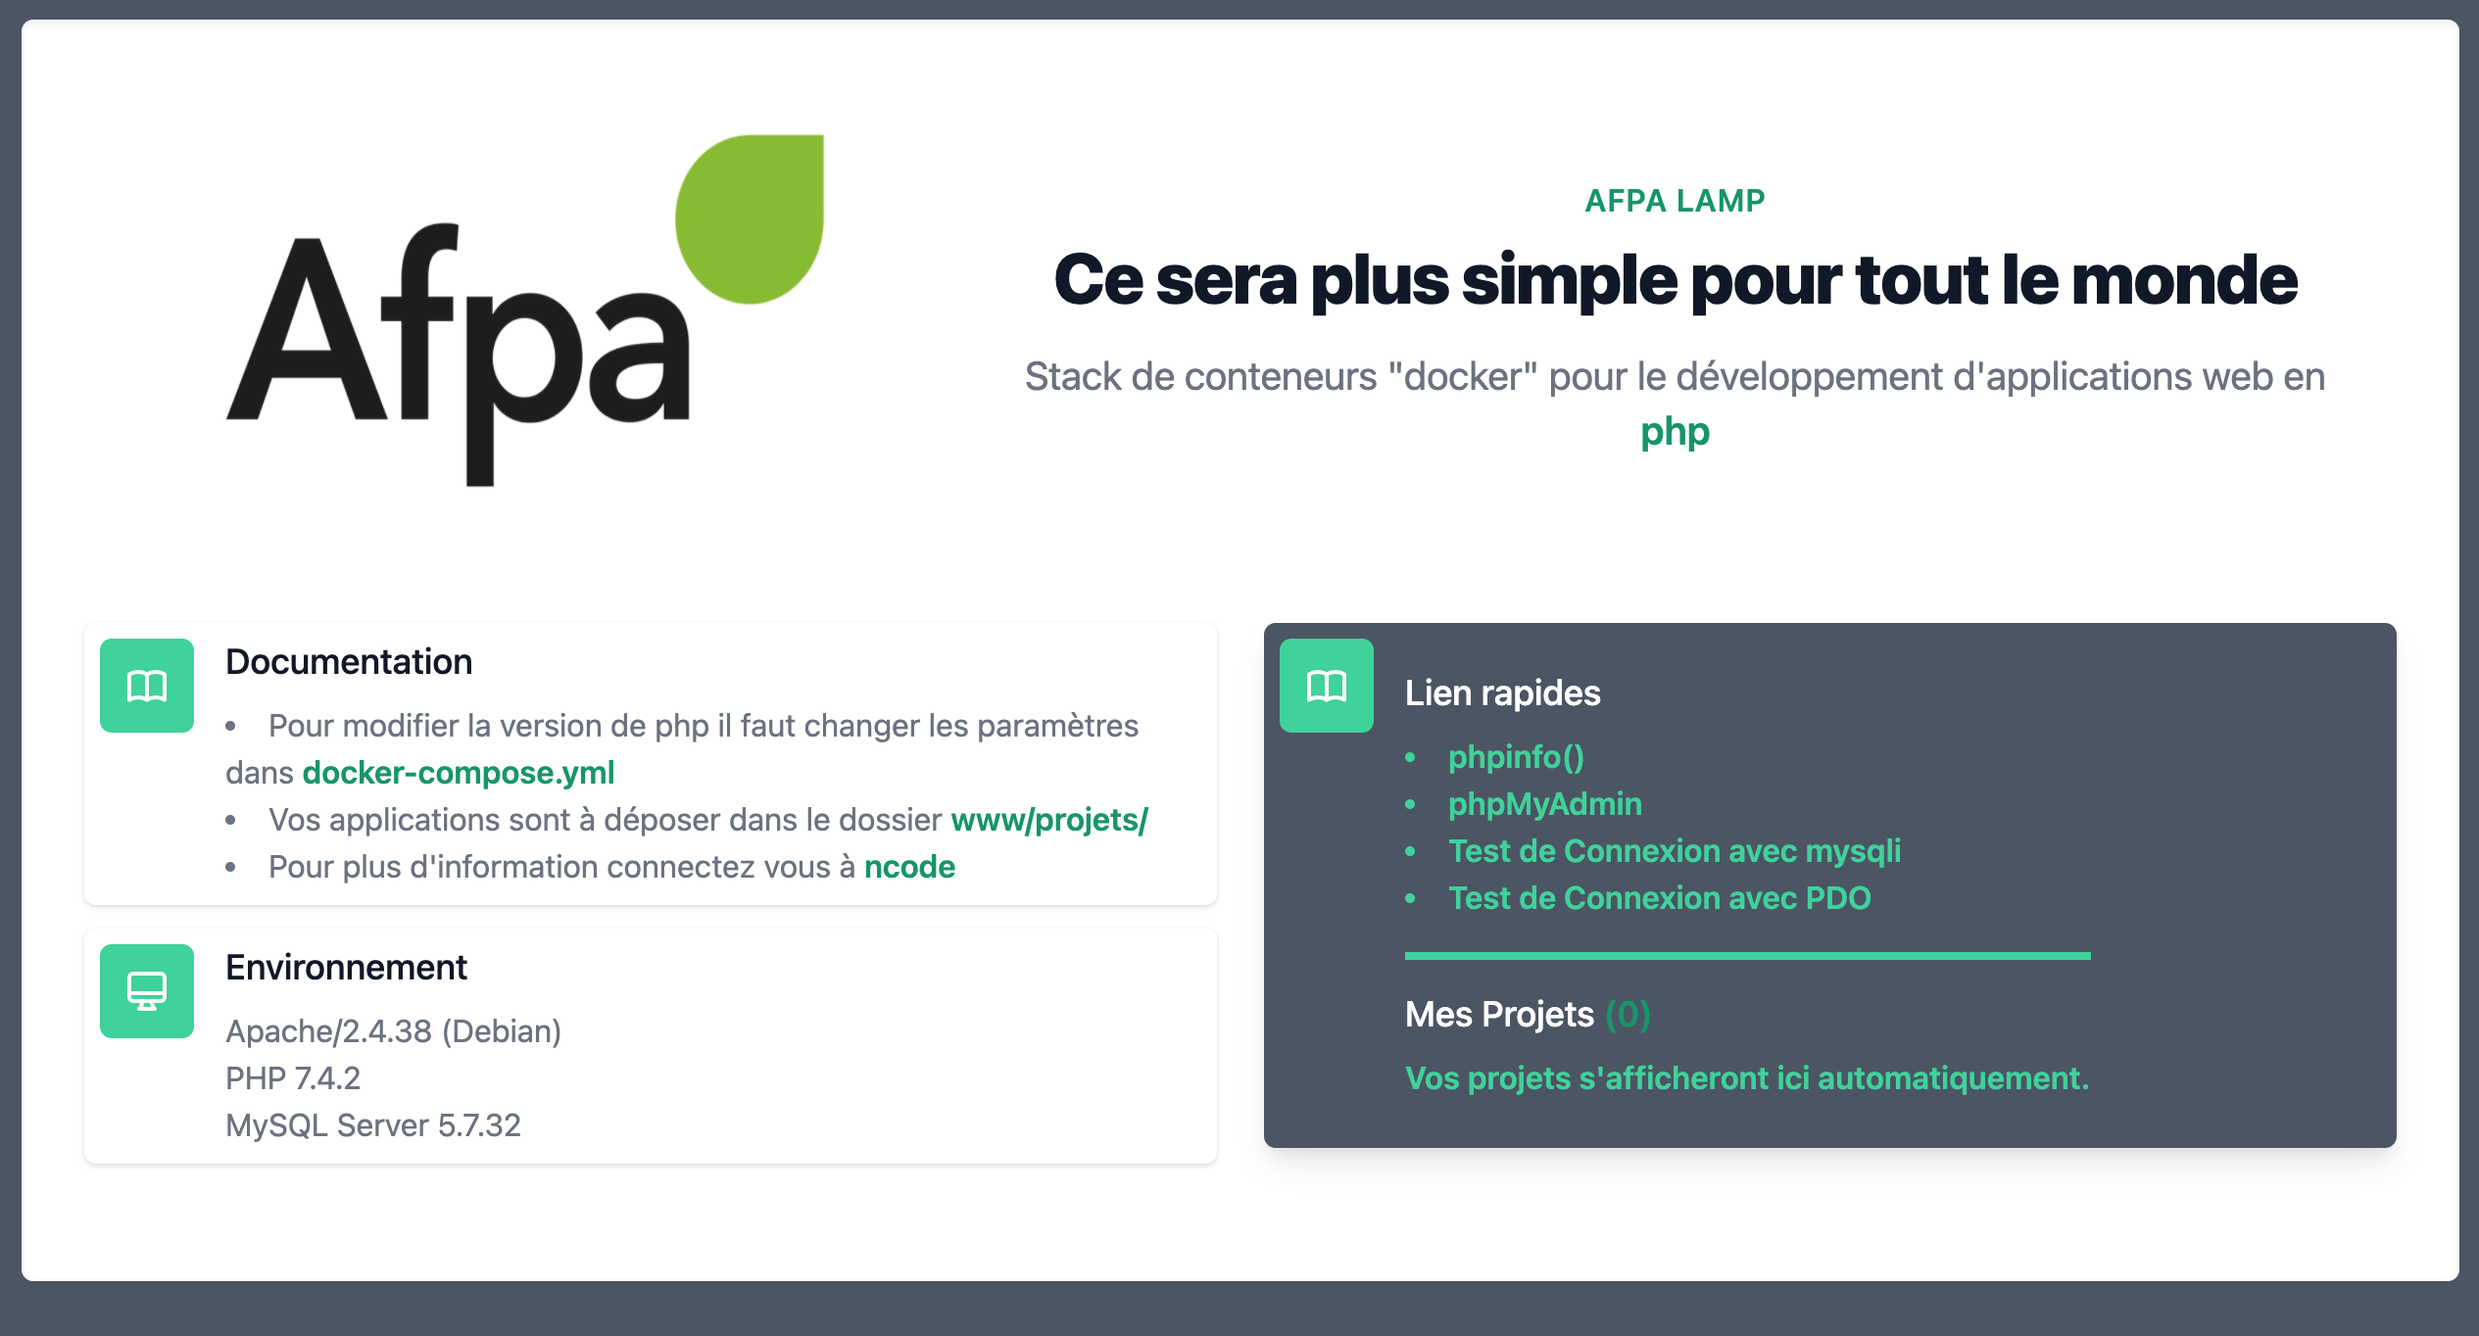
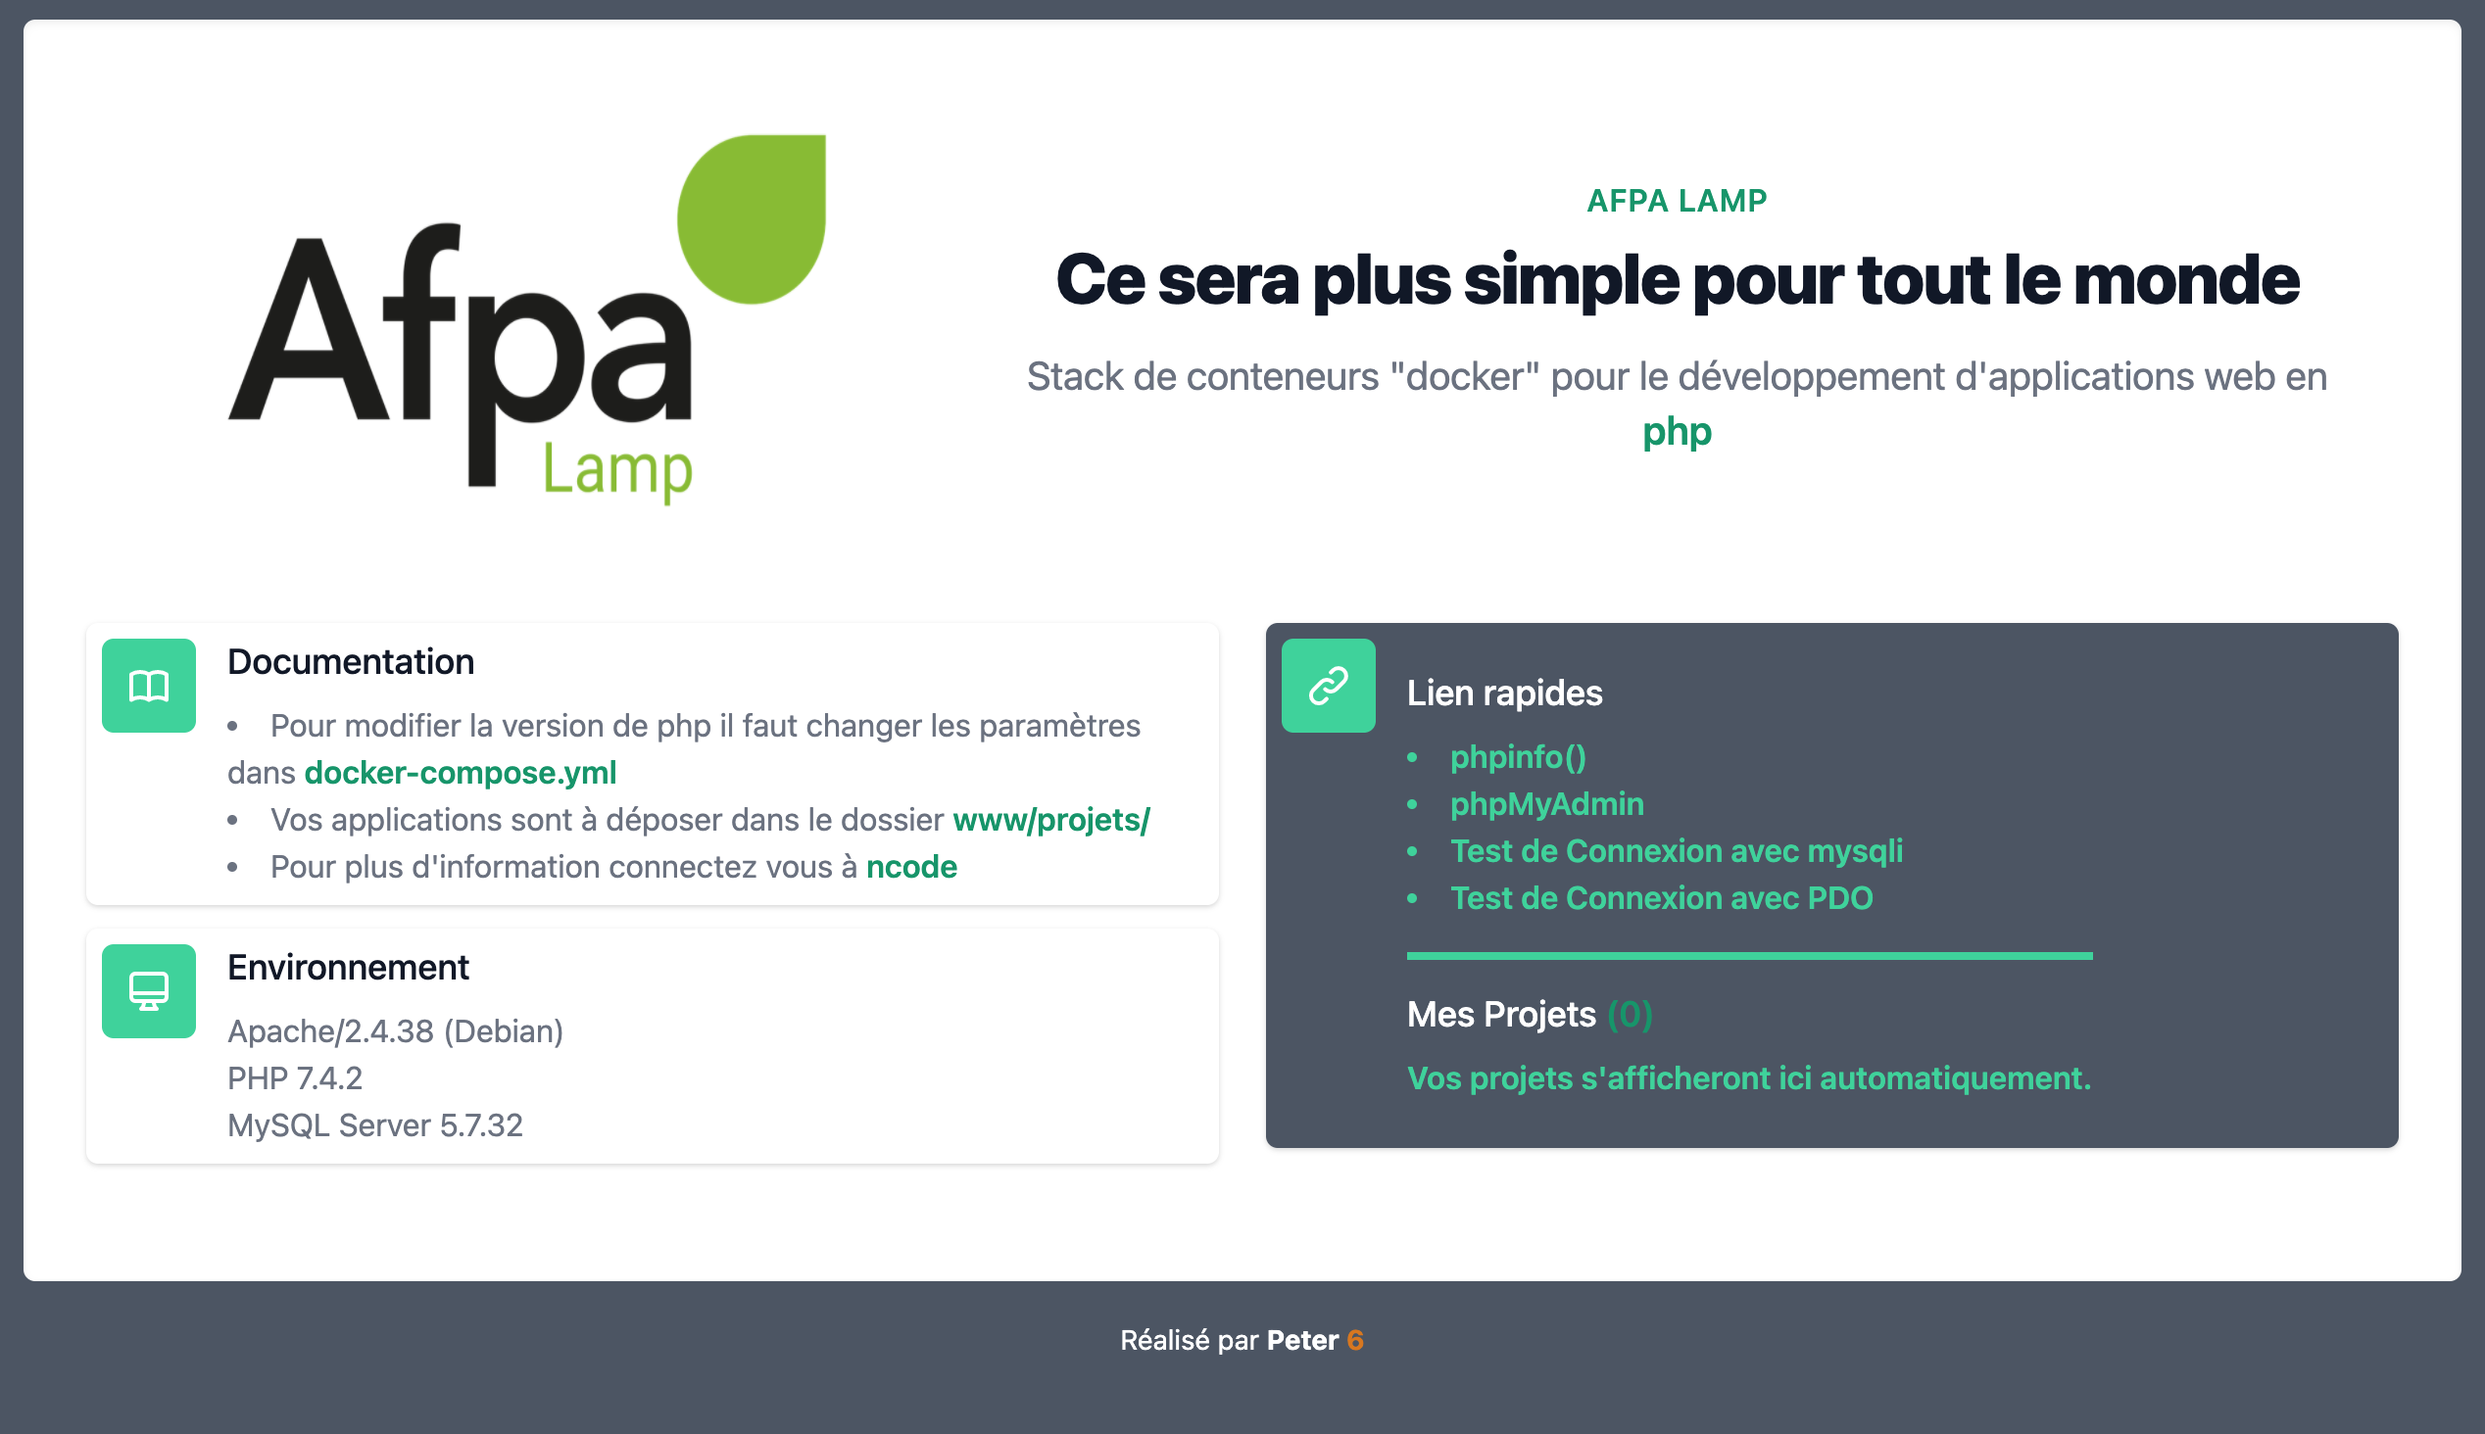
readme modifié

diff --git a/www/index.php b/www/index.php
@@ -13,7 +13,7 @@
     <div class="m-5 py-12 shadow-inner rounded-md bg-white">
         <div class="max-w-7xl mx-auto px-4 sm:px-6 lg:px-8">
             <figure class="md:flex rounded-xl p-8 md:p-0">
-                <img class="h-auto md:rounded-none mx-auto" src="assets/img/logo_afpa.png" alt="" width="350">
+                <img class="h-auto md:rounded-none mx-auto" src="assets/img/afpaLamp.png" alt="" width="350">
                 <div class="pt-6 md:p-8 text-center md:text-left space-y-4">
                     <div class="lg:text-center">
                         <h2 class="text-base text-green-600 font-semibold tracking-wide uppercase">AFPA LAMP</h2>
@@ -96,8 +96,8 @@
                                 <div class="flex items-center justify-center h-12 w-12 rounded-md bg-green-400 text-white">
                                     <!-- Heroicon name: globe-alt -->
                                     <svg class="h-6 w-6" xmlns="http://www.w3.org/2000/svg" fill="none" viewBox="0 0 24 24" stroke="currentColor">
-                                        <path stroke-linecap="round" stroke-linejoin="round" stroke-width="2" d="M12 6.253v13m0-13C10.832 5.477 9.246 5 7.5 5S4.168 5.477 3 6.253v13C4.168 18.477 5.754 18 7.5 18s3.332.477 4.5 1.253m0-13C13.168 5.477 14.754 5 16.5 5c1.747 0 3.332.477 4.5 1.253v13C19.832 18.477 18.247 18 16.5 18c-1.746 0-3.332.477-4.5 1.253" />
-                                    </svg>
+  <path stroke-linecap="round" stroke-linejoin="round" stroke-width="2" d="M13.828 10.172a4 4 0 00-5.656 0l-4 4a4 4 0 105.656 5.656l1.102-1.101m-.758-4.899a4 4 0 005.656 0l4-4a4 4 0 00-5.656-5.656l-1.1 1.1" />
+</svg>
                                 </div>
                             </div>
                             <div class="ml-4 divide-y-4 divide-green-400 divide-solid">
@@ -157,6 +157,9 @@
         </div>
     </div>
 
+<footer class="text-center text-sm">
+    <div class="text-white">Réalisé par <a class="font-bold" href="">Peter <span class="text-yellow-600">6</span></a></div>
+</footer>
 
 </body>
 

diff --git a/README.md b/README.md
@@ -1,170 +1,29 @@
-#  LAMP stack built with Docker Compose
+![logo](peter6prod.png)
+# Stack LAMP fait avec Docker Compose pour uniformiser les travaux des stagiaires
 
-  
 
-![Landing Page](https://preview.ibb.co/gOTa0y/LAMP_STACK.png)
 
-  
+![Landing Page](AfpaLamp.png)
 
-A basic LAMP stack environment built using Docker Compose. It consists of the following:
 
-* PHP
-* Apache
-* MySQL
-* phpMyAdmin
-* Redis
 
-As of now, we have several different PHP versions. Use appropriate php version as needed:
+## Installation
 
-* 5.4.x
-* 5.6.x
-* 7.1.x
-* 7.2.x
-* 7.3.x
-* 7.4.x
-* 8.0.x WIP waiting for dependencies to introduce php8 support
+* Vous devez déjà avoir [Docker](https://www.docker.com/products/docker-desktop) installé sur votre poste.
+* Téléchargez ou clonez ce dépot.
+* Lancez le Stack en ouvrant une invite de commande dans le dossier et tapez:
 
-> Please note that we simplified the project structure from several branches for each php version, to one centralized master branch. Please let us know if you encouter any problems. 
-##  Installation
- 
-* Clone this repository on your local computer
-* configure .env as needed 
-* Run the `docker-compose up -d`.
-
-```shell
-git clone https://github.com/sprintcube/docker-compose-lamp.git
-cd docker-compose-lamp/
-cp sample.env .env
-// modify sample.env as needed
+```zsh
 docker-compose up -d
-// visit localhost
 ```
 
-Your LAMP stack is now ready!! You can access it via `http://localhost`.
+## Utilisation
 
-##  Configuration and Usage
+* Une fois le Stack lancé, il vous suffit d'aller ouvrir dans votre navigateur la page `localhost:81`. Le port 81 est modifiable dans le fichier `.env`. Ce choix permet de faire tourner ce stack sur les machines sans se préoccuper de savoir si votre port 80 est déjà pris.
+* Vous pouvez désormais créer vos projets dans le dossier `www/projets`en ajoutant un dossier par projet.
+* Mysql est sur le port 3307 et on peut s'y connecter avec les identifiants suivant: `login = root | password = tiger`.
 
-### General Information 
-This Docker Stack is build for local development and not for production usage.
+## Adaptation du stack
 
-### Configuration
-This package comes with default configuration options. You can modify them by creating `.env` file in your root directory.
-To make it easy, just copy the content from `sample.env` file and update the environment variable values as per your need.
-
-### Configuration Variables
-There are following configuration variables available and you can customize them by overwritting in your own `.env` file.
-
----
-#### PHP
----
-_**PHPVERSION**_
-Is used to specify which PHP Version you want to use. Defaults always to latest PHP Version. 
-
-_**PHP_INI**_
-Define your custom `php.ini` modification to meet your requirments. 
-
----
-#### Apache 
----
-
-_**DOCUMENT_ROOT**_
-
-It is a document root for Apache server. The default value for this is `./www`. All your sites will go here and will be synced automatically.
-
-_**VHOSTS_DIR**_
-
-This is for virtual hosts. The default value for this is `./config/vhosts`. You can place your virtual hosts conf files here.
-
-> Make sure you add an entry to your system's `hosts` file for each virtual host.
-
-_**APACHE_LOG_DIR**_
-
-This will be used to store Apache logs. The default value for this is `./logs/apache2`.
-
----
-#### Database
----
-
-_**DATABASE**_
-Define which MySQL or MariaDB Version you would like to use. 
-
-_**MYSQL_DATA_DIR**_
-
-This is MySQL data directory. The default value for this is `./data/mysql`. All your MySQL data files will be stored here.
-
-_**MYSQL_LOG_DIR**_
-
-This will be used to store Apache logs. The default value for this is `./logs/mysql`.
-
-## Web Server
-
-Apache is configured to run on port 80. So, you can access it via `http://localhost`.
-
-#### Apache Modules
-
-By default following modules are enabled.
-
-* rewrite
-* headers
-
-> If you want to enable more modules, just update `./bin/webserver/Dockerfile`. You can also generate a PR and we will merge if seems good for general purpose.
-> You have to rebuild the docker image by running `docker-compose build` and restart the docker containers.
-
-#### Connect via SSH
-
-You can connect to web server using `docker-compose exec` command to perform various operation on it. Use below command to login to container via ssh.
-
-```shell
-docker-compose exec webserver bash
-```
-
-## PHP
-
-The installed version of depends on your `.env`file. 
-
-#### Extensions
-
-By default following extensions are installed. 
-May differ for PHP Verions <7.x.x
-
-* mysqli
-* pdo_sqlite
-* pdo_mysql
-* mbstring
-* zip
-* intl
-* mcrypt
-* curl
-* json
-* iconv
-* xml
-* xmlrpc
-* gd
-
-> If you want to install more extension, just update `./bin/webserver/Dockerfile`. You can also generate a PR and we will merge if it seems good for general purpose.
-> You have to rebuild the docker image by running `docker-compose build` and restart the docker containers.
-
-## phpMyAdmin
-
-phpMyAdmin is configured to run on port 8080. Use following default credentials.
-
-http://localhost:8080/  
-username: root  
-password: tiger
-
-## Redis
-
-It comes with Redis. It runs on default port `6379`.
-
-## Contributing
-We are happy if you want to create a pull request or help people with their issues. If you want to create a PR, please remember that this stack is not built for production usage, and changes should good for general purpose and not overspecialized. 
-> Please note that we simplified the project structure from several branches for each php version, to one centralized master branch.  Please create your PR against master branch. 
-> 
-Thank you! 
-
-## Why you shouldn't use this stack unmodified in production
-We want to empower developers to quickly create creative Applications. Therefore we are providing an easy to set up a local development environment for several different Frameworks and PHP Versions. 
-In Production you should modify at a minimum the following subjects:
-
-* php handler: mod_php=> php-fpm
-* secure mysql users with proper source IP limitations
+* Vous pouvez changer la majorité des paramètres de ce stack dans le fichier .env et docker-compose.yml . Cependant je vous invite à consulter votre formateur avant toutes modifications.
+* Ce projet est lui même une adaptation du Stack [docker-compose-lamp](https://github.com/sprintcube/docker-compose-lamp).

diff --git a/README_original.md b/README_original.md
@@ -1,0 +1,170 @@
+#  LAMP stack built with Docker Compose
+
+  
+
+![Landing Page](https://preview.ibb.co/gOTa0y/LAMP_STACK.png)
+
+  
+
+A basic LAMP stack environment built using Docker Compose. It consists of the following:
+
+* PHP
+* Apache
+* MySQL
+* phpMyAdmin
+* Redis
+
+As of now, we have several different PHP versions. Use appropriate php version as needed:
+
+* 5.4.x
+* 5.6.x
+* 7.1.x
+* 7.2.x
+* 7.3.x
+* 7.4.x
+* 8.0.x WIP waiting for dependencies to introduce php8 support
+
+> Please note that we simplified the project structure from several branches for each php version, to one centralized master branch. Please let us know if you encouter any problems. 
+##  Installation
+ 
+* Clone this repository on your local computer
+* configure .env as needed 
+* Run the `docker-compose up -d`.
+
+```shell
+git clone https://github.com/sprintcube/docker-compose-lamp.git
+cd docker-compose-lamp/
+cp sample.env .env
+// modify sample.env as needed
+docker-compose up -d
+// visit localhost
+```
+
+Your LAMP stack is now ready!! You can access it via `http://localhost`.
+
+##  Configuration and Usage
+
+### General Information 
+This Docker Stack is build for local development and not for production usage.
+
+### Configuration
+This package comes with default configuration options. You can modify them by creating `.env` file in your root directory.
+To make it easy, just copy the content from `sample.env` file and update the environment variable values as per your need.
+
+### Configuration Variables
+There are following configuration variables available and you can customize them by overwritting in your own `.env` file.
+
+---
+#### PHP
+---
+_**PHPVERSION**_
+Is used to specify which PHP Version you want to use. Defaults always to latest PHP Version. 
+
+_**PHP_INI**_
+Define your custom `php.ini` modification to meet your requirments. 
+
+---
+#### Apache 
+---
+
+_**DOCUMENT_ROOT**_
+
+It is a document root for Apache server. The default value for this is `./www`. All your sites will go here and will be synced automatically.
+
+_**VHOSTS_DIR**_
+
+This is for virtual hosts. The default value for this is `./config/vhosts`. You can place your virtual hosts conf files here.
+
+> Make sure you add an entry to your system's `hosts` file for each virtual host.
+
+_**APACHE_LOG_DIR**_
+
+This will be used to store Apache logs. The default value for this is `./logs/apache2`.
+
+---
+#### Database
+---
+
+_**DATABASE**_
+Define which MySQL or MariaDB Version you would like to use. 
+
+_**MYSQL_DATA_DIR**_
+
+This is MySQL data directory. The default value for this is `./data/mysql`. All your MySQL data files will be stored here.
+
+_**MYSQL_LOG_DIR**_
+
+This will be used to store Apache logs. The default value for this is `./logs/mysql`.
+
+## Web Server
+
+Apache is configured to run on port 80. So, you can access it via `http://localhost`.
+
+#### Apache Modules
+
+By default following modules are enabled.
+
+* rewrite
+* headers
+
+> If you want to enable more modules, just update `./bin/webserver/Dockerfile`. You can also generate a PR and we will merge if seems good for general purpose.
+> You have to rebuild the docker image by running `docker-compose build` and restart the docker containers.
+
+#### Connect via SSH
+
+You can connect to web server using `docker-compose exec` command to perform various operation on it. Use below command to login to container via ssh.
+
+```shell
+docker-compose exec webserver bash
+```
+
+## PHP
+
+The installed version of depends on your `.env`file. 
+
+#### Extensions
+
+By default following extensions are installed. 
+May differ for PHP Verions <7.x.x
+
+* mysqli
+* pdo_sqlite
+* pdo_mysql
+* mbstring
+* zip
+* intl
+* mcrypt
+* curl
+* json
+* iconv
+* xml
+* xmlrpc
+* gd
+
+> If you want to install more extension, just update `./bin/webserver/Dockerfile`. You can also generate a PR and we will merge if it seems good for general purpose.
+> You have to rebuild the docker image by running `docker-compose build` and restart the docker containers.
+
+## phpMyAdmin
+
+phpMyAdmin is configured to run on port 8080. Use following default credentials.
+
+http://localhost:8080/  
+username: root  
+password: tiger
+
+## Redis
+
+It comes with Redis. It runs on default port `6379`.
+
+## Contributing
+We are happy if you want to create a pull request or help people with their issues. If you want to create a PR, please remember that this stack is not built for production usage, and changes should good for general purpose and not overspecialized. 
+> Please note that we simplified the project structure from several branches for each php version, to one centralized master branch.  Please create your PR against master branch. 
+> 
+Thank you! 
+
+## Why you shouldn't use this stack unmodified in production
+We want to empower developers to quickly create creative Applications. Therefore we are providing an easy to set up a local development environment for several different Frameworks and PHP Versions. 
+In Production you should modify at a minimum the following subjects:
+
+* php handler: mod_php=> php-fpm
+* secure mysql users with proper source IP limitations
